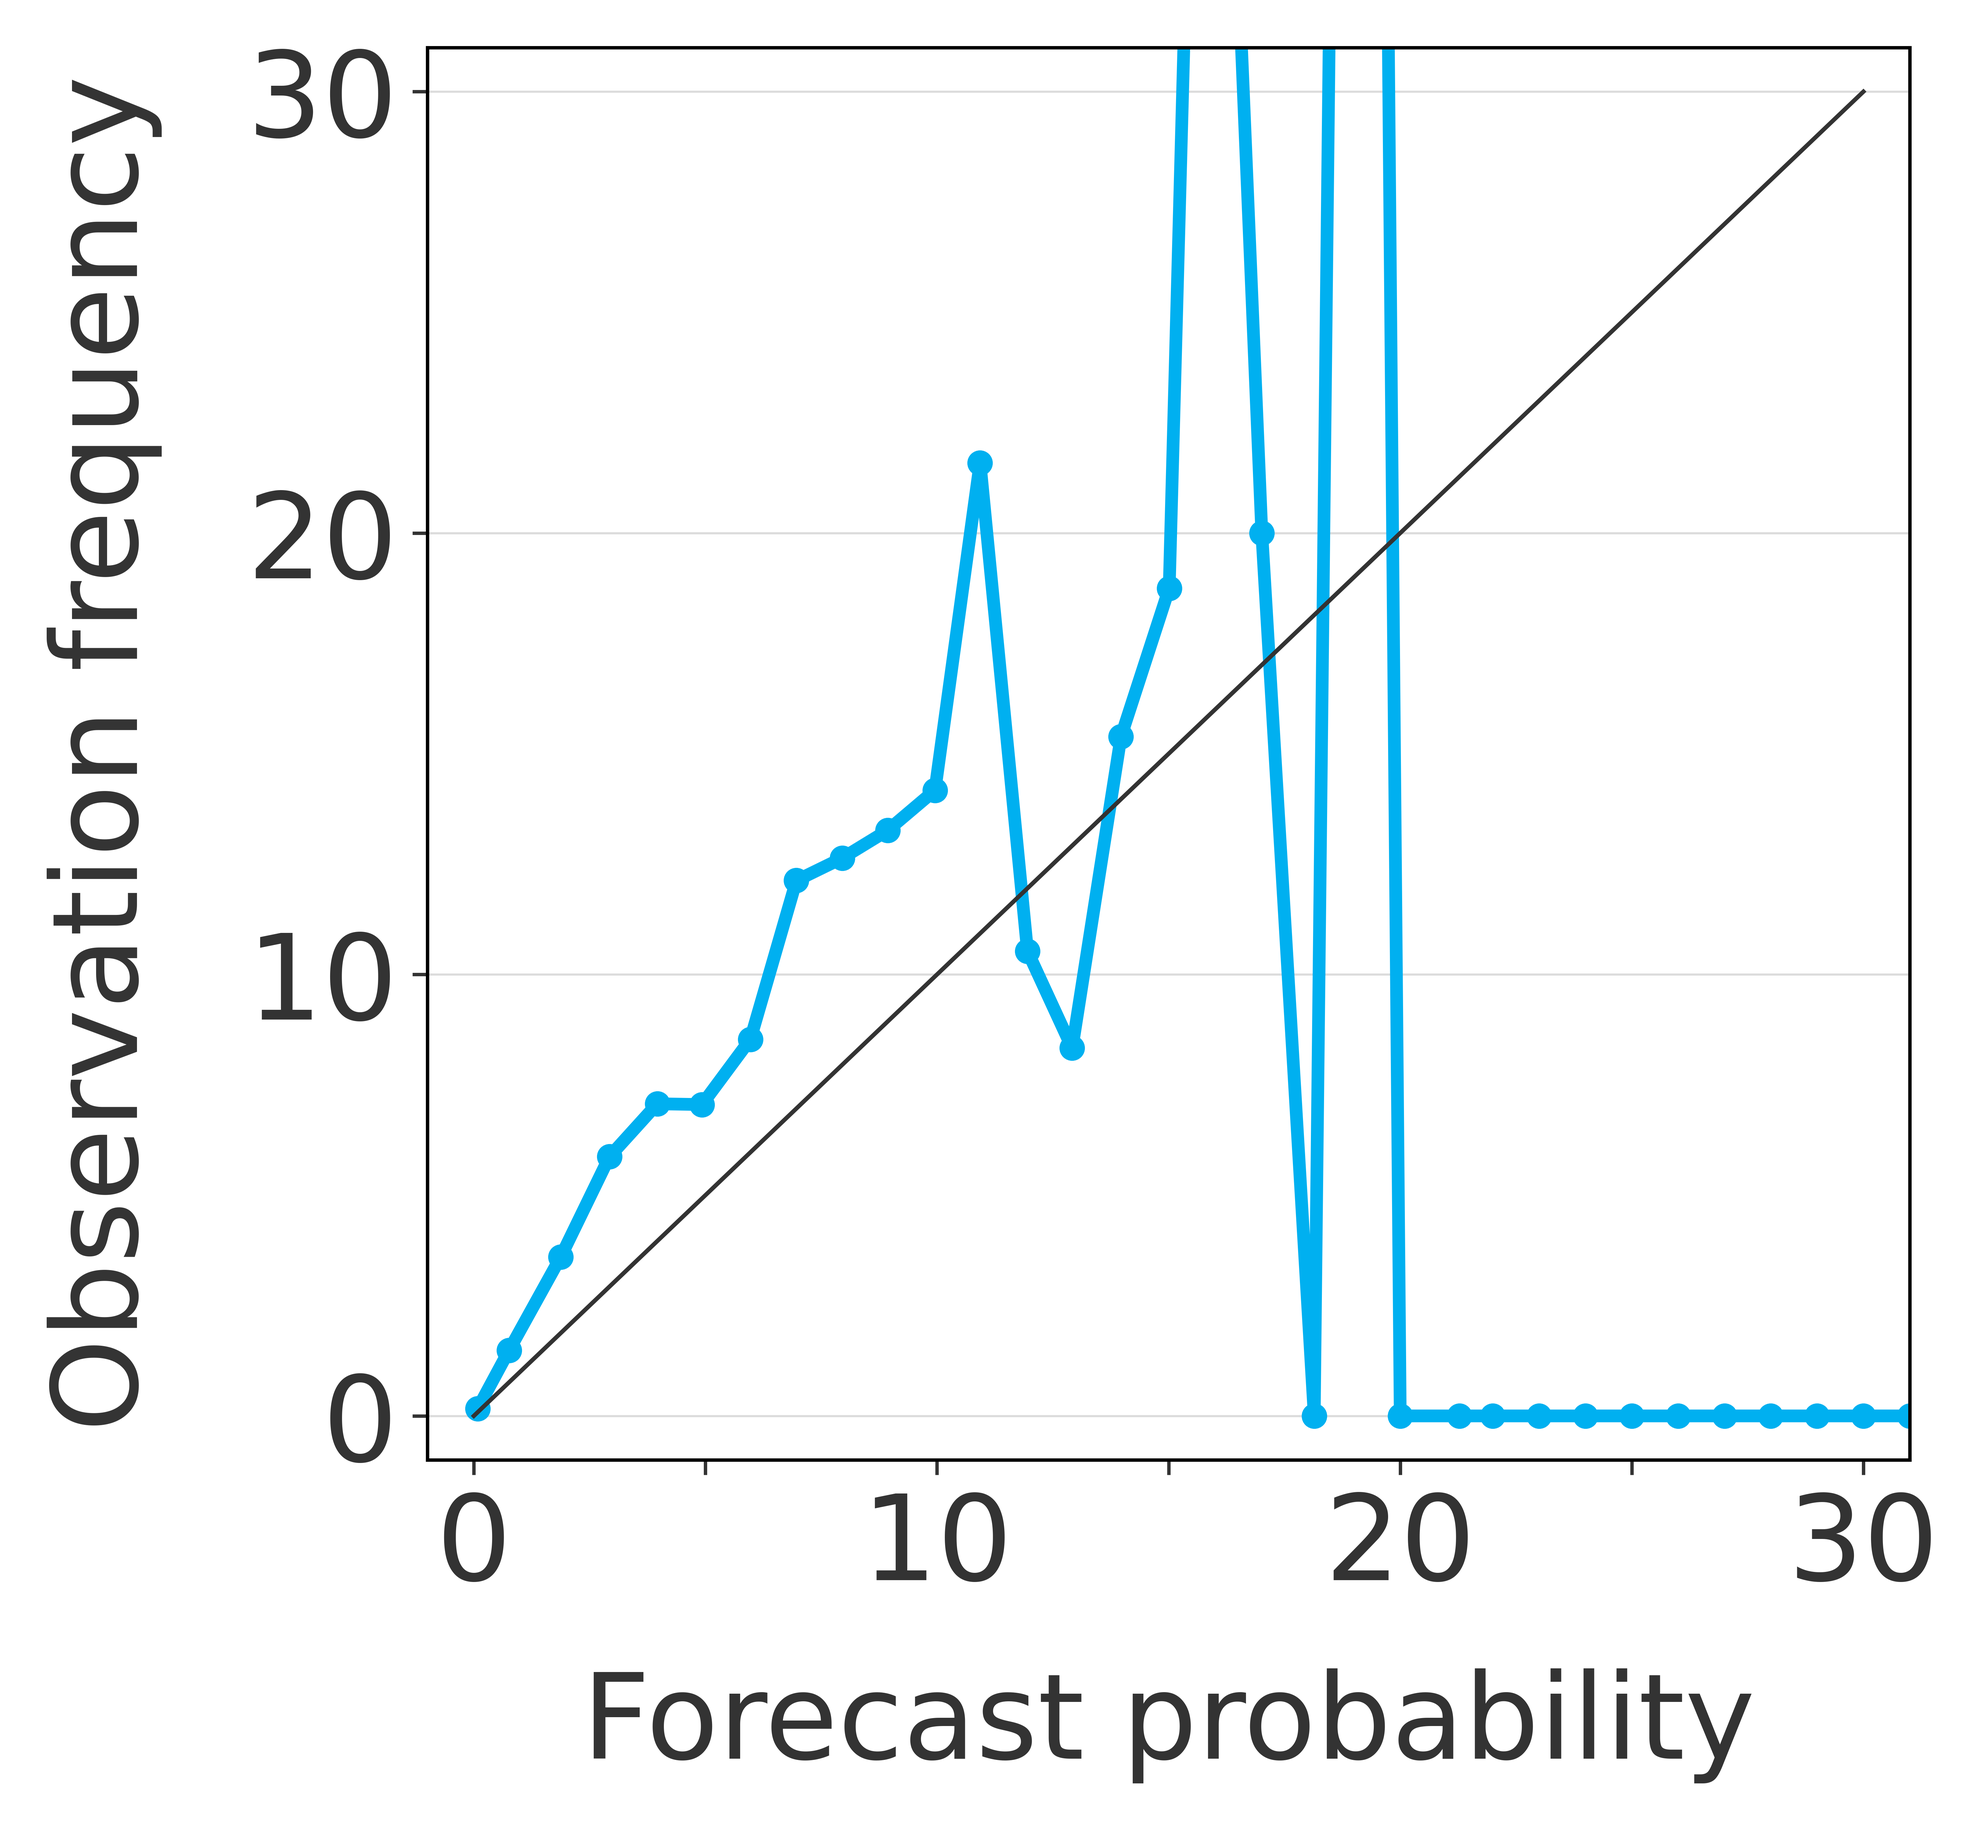
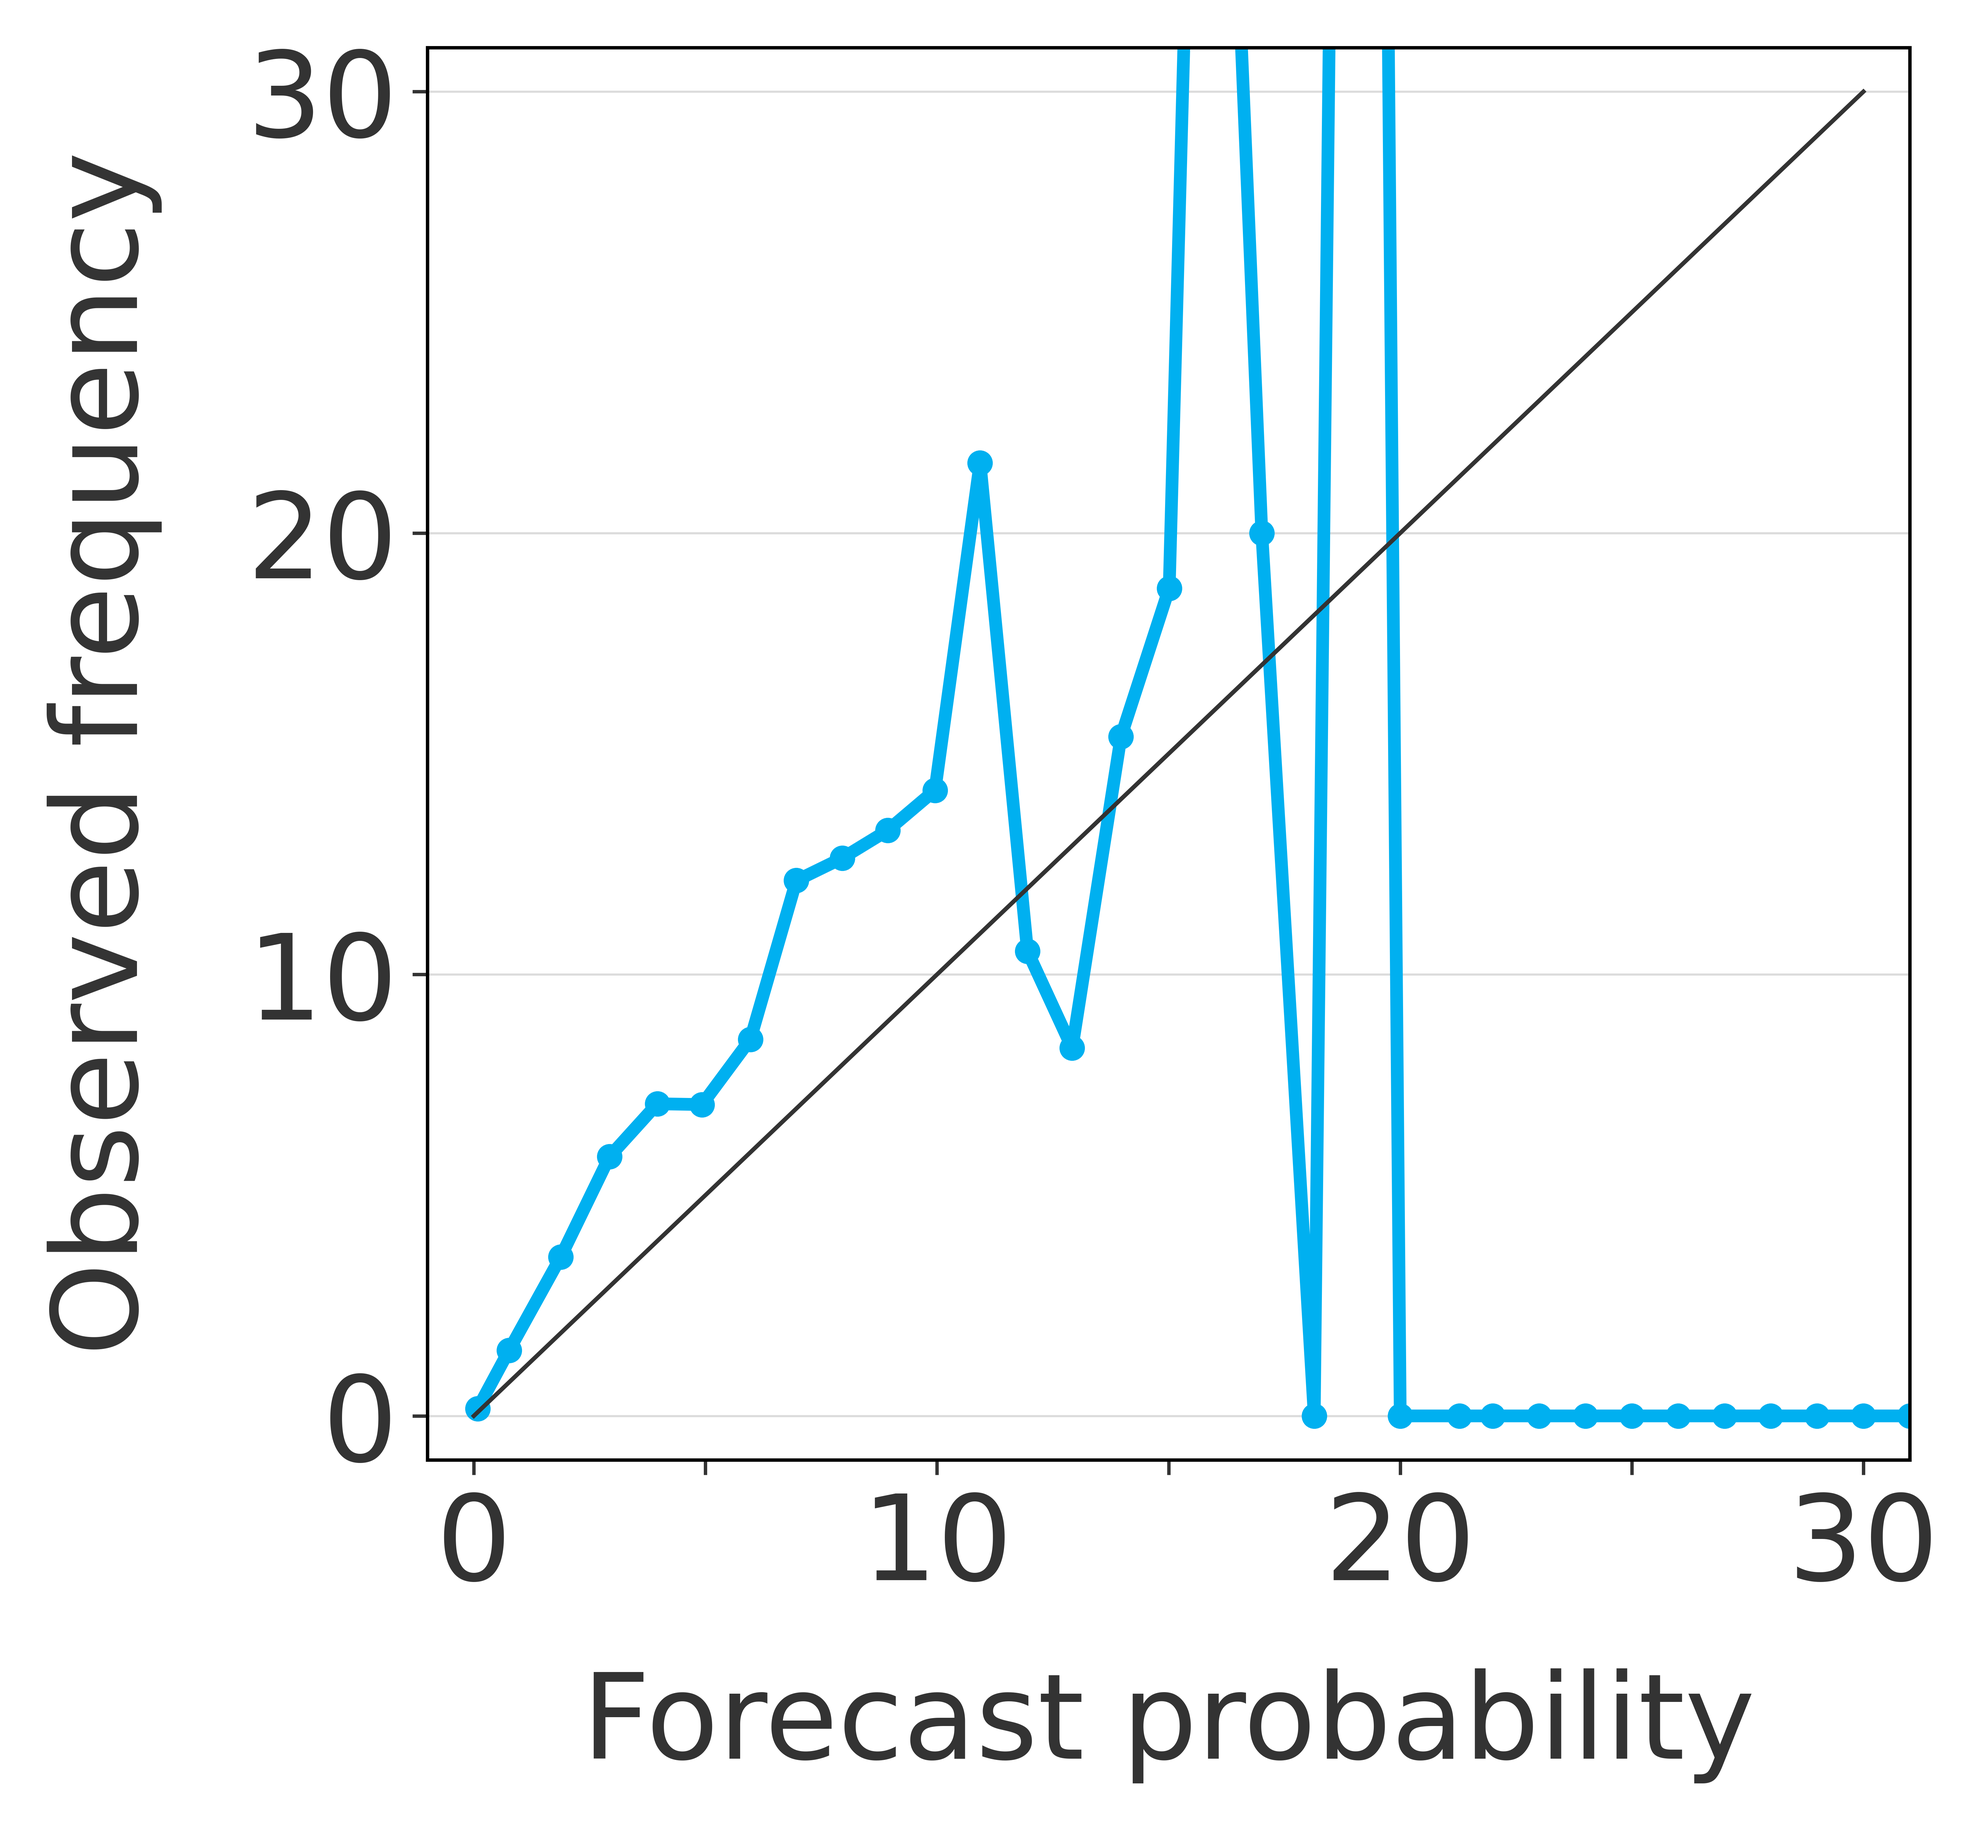
Created the modified plots of the verification scores for the sensitivity analysis.

Changed region(s): [[0.0, 0.0312, 0.0937, 0.7792]]

diff --git a/code/plot/27_prob_ff_hydro_sensitivity_verif.py b/code/plot/27_prob_ff_hydro_sensitivity_verif.py
@@ -151,7 +151,7 @@ for sensitivity_analysis in sensitivity_analysis_list:
       plt.plot(mean_prob_fc_test, mean_freq_obs_test * 100, "-o", color = "#00B0F0", lw = 3, ms=5)
       plt.plot([0,30], [0, 30], color = "#333333", lw = 1)
       plt.xlabel("Forecast probability", color = "#333333", fontsize = 28, labelpad = 15)
-      plt.ylabel("Observation frequency", color = "#333333", fontsize = 28, labelpad = 20)
+      plt.ylabel("Observed frequency", color = "#333333", fontsize = 28, labelpad = 20)
       plt.tick_params(axis='x', colors='#333333', labelsize=28)
       plt.tick_params(axis='y', colors='#333333', labelsize=28)
       ticks = np.arange(0, 101, 5)
